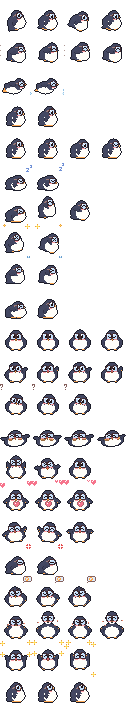
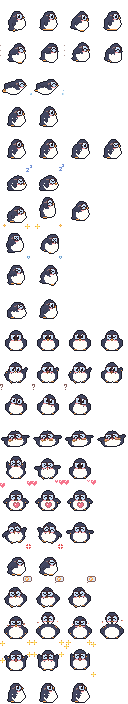
fix(art): penguin waddles gently and its back no longer bulges out behind
- walk tilt -16/+20 → -8/+10
- side view: the back half of the body ball is 0.78 as wide (BACK_SHRINK), tail follows it

diff --git a/tools/draw_penguin.py b/tools/draw_penguin.py
@@ -54,7 +54,7 @@ SHRIMP, SHRIMP_DARK = (255, 140, 110), (222, 96, 80)
 #               chub: 동글 공 몸 (가로, 세로) 배율 — 공통 torso(아기 길쭉)를 쓰지 않고 모든 단계 포동포동 (머리 큰 아기는 몸을 더 넓게)
 PG_STAGE = {
     0: dict(chick=True, fluff=3, fuzz=True, flip=0.78, tie=False, chub=(1.3, 1.0)),
-    1: dict(chick=True, fluff=1, fuzz=False, flip=0.86, tie=False, chub=(1.25, 1.02)),  # 등 솜털 세모는 아기만 (사용자: 등이 뾰족뾰족)
+    1: dict(chick=True, fluff=1, fuzz=False, flip=0.86, tie=False, chub=(1.2, 1.02)),  # 등 솜털 세모는 아기만 (사용자: 등이 뾰족뾰족)
     2: dict(chick=False, fluff=1, fuzz=False, flip=0.94, tie=False, chub=(1.17, 0.97)),
     3: dict(chick=False, fluff=0, fuzz=False, flip=1.0, tie=False, chub=(1.0, 1.0)),
     4: dict(chick=False, fluff=0, fuzz=False, flip=1.04, tie=True, chub=(0.98, 0.97)),
@@ -281,12 +281,14 @@ def penguin(sp, *, side=True, bottom=None, cx=64.0, sq=(1.0, 1.0), rot=0.0, eyes
                 if feet:
                     for j, (dx, lift) in enumerate(feet):  # 동글 몸 아래로 짧은 발이 쏙
                         parts.append(side_foot(bx - rx * 0.36 + rx * 0.62 * j + dx, lift, k=fk * 1.12, y=bottom + 3.0))
-                tail = T((bx - rx * 0.7, by + ry * 0.4), (bx - rx - 6 * bk, by + ry * 0.96), (bx - rx * 0.3, by + ry * 0.92))
                 # 볼록 배: 몸 앞쪽 아래로 불룩 튀어나온 공 (무게중심이 아래)
                 bulge = E(bx - rx * 0.3, by - ry * 0.5, bx + rx * 1.1, by + ry)
                 belly_m = [([E(bx - rx * 0.42, by - ry * 0.6, bx + rx * 1.3, by + ry * 1.12)], bcol)]
                 spikes = fuzz(bx, by, rx, ry, (200, 165, 135)) if st["fuzz"] else []
-                parts.append(Part([E(bx - rx, by - ry, bx + rx, by + ry), bulge, tail], col, belly_m, grow=1, spikes=spikes))
+                # 등은 덜 내민다 (사용자: 등이 옆으로 누운 산처럼 튀어나왔다) — 몸 공의 뒤쪽 반만 좁힌다
+                back = BACK_SHRINK * rx
+                tail = T((bx - back * 0.7, by + ry * 0.4), (bx - back - 6 * bk, by + ry * 0.96), (bx - back * 0.3, by + ry * 0.92))
+                parts.append(Part([E(bx - back, by - ry, bx + rx, by + ry), bulge, tail], col, belly_m, grow=1, spikes=spikes))
                 hpart, bp, face = side_head(hx, hy, hr, eyes, mouth, brow, head_rot)
                 parts.append(hpart)
                 if st["tie"]:
@@ -360,7 +362,8 @@ def ice_puffs(items):
 # =====================================================================
 # 포즈
 # =====================================================================
-WADDLE = [-16, 0, 20, 0]  # 뒤뚱: 기우뚱 각도 (동글 몸 가운데가 축이라 크게 기울여야 뒤뚱이 보인다)
+BACK_SHRINK = 0.78  # 옆모습 등 쪽 몸 반지름 배율
+WADDLE = [-8, 0, 10, 0]  # 뒤뚱: 기우뚱 각도 (사용자: 너무 뒤뚱거린다 — 반으로 줄임)
 
 
 def pg_walk(sp, i):

diff --git a/tools/test_draw_penguin.py b/tools/test_draw_penguin.py
@@ -109,7 +109,7 @@ def test_baby_is_a_grey_fluffy_chick(out, anim):
 
 @pytest.mark.parametrize("st", STAGES)
 def test_walk_is_a_side_to_side_waddle(out, st):
-    """뒤뚱뒤뚱: 0·2 장은 몸이 서로 반대쪽으로 기우뚱 (윗부분 무게중심이 반대쪽), 1·3 장은 가운데."""
+    """뒤뚱뒤뚱: 0·2 장은 몸이 서로 반대쪽으로 살짝 기우뚱 (윗부분 무게중심이 반대쪽 — 사용자: 너무 뒤뚱거려서 줄였다)."""
     def lean(i):
         a = alpha(frame(out, st, "walk", i))
         ys, xs = np.nonzero(a)
@@ -117,8 +117,7 @@ def test_walk_is_a_side_to_side_waddle(out, st):
         bottom = ys > np.percentile(ys, 80)
         return xs[top].mean() - xs[bottom].mean()
     l0, l1, l2 = lean(0), lean(1), lean(2)
-    assert abs(l0 - l2) >= 5, (st, l0, l1, l2)
-    assert min(l0, l2) < l1 < max(l0, l2), (st, l0, l1, l2)
+    assert l0 - l2 >= 0.8, (st, l0, l1, l2)
 
 
 @pytest.mark.parametrize("st", STAGES)
@@ -179,7 +178,7 @@ def _chub(im, st):
 def test_a_plump_round_penguin_with_a_big_round_belly(out, st, anim):
     """포동포동: 몸이 키에 비해 넓은 동글 공 모양이고, 볼록한 배가 몸 너비의 큰 몫을 차지한다 (모든 단계, 서기·걷기·앞모습)."""
     ratio, belly = _chub(frame(out, st, anim, 1 if anim == "walk" else 0), st)  # 걷기는 똑바로 선 칸 (0·2칸은 뒤뚱 기운다)
-    assert ratio >= 0.88, (st, anim, round(ratio, 2))
+    assert ratio >= (0.78 if anim != "sit_front" else 0.88), (st, anim, round(ratio, 2))  # 옆모습은 등을 덜 내밀어 조금 좁다
     assert belly >= (0.62 if anim == "sit_front" else 0.5), (st, anim, round(belly, 2))
 
 
@@ -472,3 +471,23 @@ def test_the_back_is_smooth_without_spikes_or_a_pointy_tail(out, st, anim):
     for i in (0, 1):
         spikes, tail = _back_bumps(frame(out, st, anim, i))
         assert spikes == 0 and tail <= 2, (st, anim, i, spikes, tail)
+
+
+def _back_share(im):
+    """옆모습에서 머리 꼭대기보다 뒤(왼쪽)에 있는 몸의 몫 (실루엣 너비 대비)."""
+    a = alpha(im)
+    ys, xs = np.nonzero(a.any(axis=1))[0], np.nonzero(a.any(axis=0))[0]
+    head_x = np.nonzero(a[ys[0]: ys[0] + 6].any(axis=0))[0].mean()
+    return (head_x - xs[0]) / (xs[-1] - xs[0])
+
+
+@pytest.mark.parametrize("st", ["kinder", "child", "teenager", "adult"])
+def test_the_back_does_not_bulge_out_like_a_mountain(out, st):
+    """사용자: 등이 옆으로 누운 산처럼 튀어나왔다 — 머리 뒤로 나온 몸의 몫을 줄였다 (전 0.59~0.61, 배는 앞으로 볼록 그대로)."""
+    for anim in ("idle", "look"):
+        assert _back_share(frame(out, st, anim, 0)) <= 0.57, (st, anim, round(_back_share(frame(out, st, anim, 0)), 2))
+
+
+def test_the_waddle_is_gentle():
+    """사용자: 너무 뒤뚱거린다 — 기우뚱은 10도 안쪽."""
+    assert max(abs(a) for a in draw_penguin.WADDLE) <= 10
